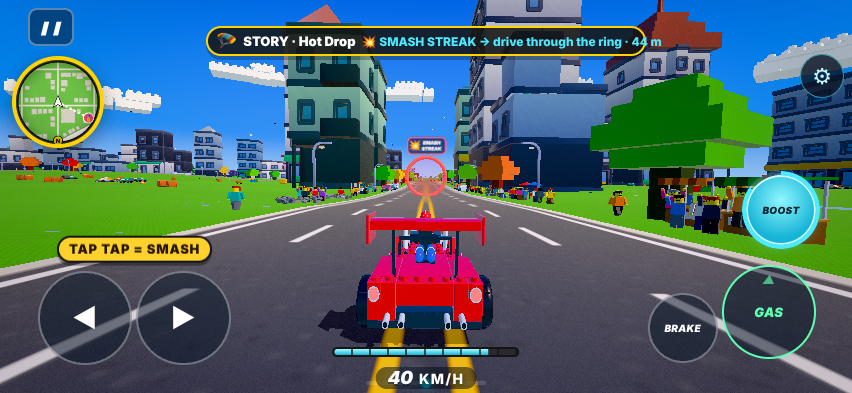
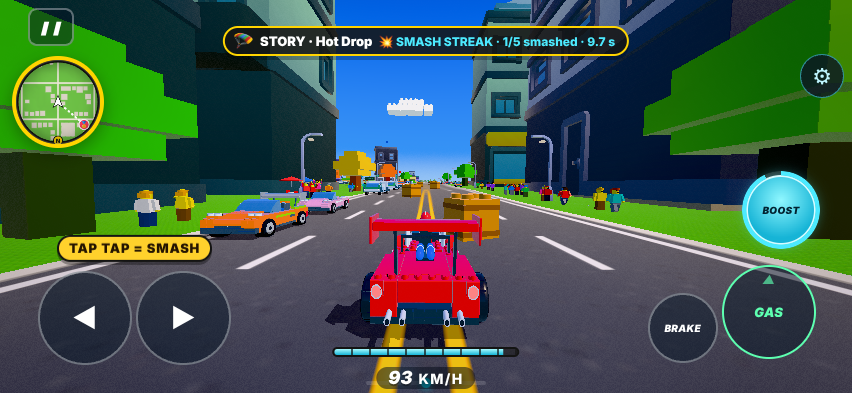
lively v88p: hide ring on start; pop tool: delayed run shot + fast logic mode
Claude-Session: https://claude.ai/code/session_01Jwuumv6rE1GdoTTWoDV1rK

diff --git a/lv/pop.js b/lv/pop.js
@@ -11,13 +11,13 @@ const enter=require('../bc/enter.js');const fs=require('fs');const URL=process.a
     const r=await ev(`(()=>{const N=HUB.nodes.filter(n=>n&&n.nb&&n.nb.length>=2&&!n.ab&&!n.g&&(n.w||0)>=10);const a0=N[Math.floor((${si}*.137%1)*N.length)],b=HUB.nodes[a0.nb[0]],L=Math.hypot(b.x-a0.x,b.z-a0.z),a={x:a0.x+(b.x-a0.x)*12/L,z:a0.z+(b.z-a0.z)*12/L};const h=Math.atan2(b.x-a0.x,b.z-a0.z);__mho.warp(a.x,a.z,h,performance.now());RO.x=a.x;RO.z=a.z;RO.y=__mho.gnd(a.x,a.z,RO.y+60);RO.v=0;RO.h=RO.vh=h;if(LVP.c)LVP_end(LVP.c,false);return 1})()`);
     await p.waitForTimeout(1500);ok=await ev(`(()=>{LVP.k=${k};LVP.cd=999;return !!LVP_path()&&LVP_spawn()})()`)===true}
   if(!ok){console.log('kind',k,'no straight street');continue}
-  await p.waitForTimeout(2500);await p.screenshot({path:`${OUT}/${CITY}_pop${k}_gate.png`});console.log('gate',k,await ev(`JSON.stringify({k:LVP.c&&LVP.c.K.k,d:LVP.c&&Math.round(Math.hypot(LVP.c.gx-RO.x,LVP.c.gz-RO.z)),line:(document.querySelector('#roamArrow span')||{}).textContent||(document.querySelector('#m1Next .crD')||{}).textContent})`));
+  await p.waitForTimeout(2500);if(!process.env.NOSHOT)await p.screenshot({path:`${OUT}/${CITY}_pop${k}_gate.png`});console.log('gate',k,await ev(`JSON.stringify({k:LVP.c&&LVP.c.K.k,d:LVP.c&&Math.round(Math.hypot(LVP.c.gx-RO.x,LVP.c.gz-RO.z)),line:(document.querySelector('#roamArrow span')||{}).textContent||(document.querySelector('#m1Next .crD')||{}).textContent})`));
   // headless sim runs ~0.3× real time: place the car 9 m before the ring at 15 m/s (the reviewer is told), then real GAS
   await ev(`(()=>{const C=LVP.c;RO.x=C.gx-Math.sin(C.gh)*9;RO.z=C.gz-Math.cos(C.gh)*9;RO.h=RO.vh=C.gh;RO.v=15;return 1})()`);
   await p.keyboard.down('ArrowUp');let shot=false;const t0=Date.now();
   while(Date.now()-t0<150000){const st=await ev(`LVP.c?LVP.c.st+':'+LVP.c.t.toFixed(1)+':'+LVP.c.v.toFixed(1):'none'`);
-   if(!shot&&st.startsWith('1:')&&parseFloat(st.split(':')[1])>(k===0?0.3:0.6)){await p.screenshot({path:`${OUT}/${CITY}_pop${k}_run.png`});shot=true;console.log('run',k,st,await ev(`(document.querySelector('#roamArrow span')||{}).textContent+' | '+((document.querySelector('#m1Next .crD')||{}).textContent||'')`))}
+   if(!shot&&st.startsWith('1:')&&parseFloat(st.split(':')[1])>(k===0?0.3:0.6)){if(!process.env.NOSHOT)await p.waitForTimeout(2500);if(!process.env.NOSHOT)await p.screenshot({path:`${OUT}/${CITY}_pop${k}_run.png`});shot=true;console.log('run',k,st,await ev(`(document.querySelector('#roamArrow span')||{}).textContent+' | '+((document.querySelector('#m1Next .crD')||{}).textContent||'')`))}
    if(st==='none')break;await p.waitForTimeout(400)}
-  await p.keyboard.up('ArrowUp');await p.waitForTimeout(600);if(k===2||k===0)await p.screenshot({path:`${OUT}/${CITY}_pop${k}_end.png`});
+  await p.keyboard.up('ArrowUp');await p.waitForTimeout(600);if(!process.env.NOSHOT&&(k===2||k===0))await p.screenshot({path:`${OUT}/${CITY}_pop${k}_end.png`});
   console.log('end',k,await ev(`JSON.stringify({ok:LVP.ok,miss:LVP.miss,ramps:RO.ramps.length})`))}
  console.log('errors',errs.length,errs.slice(0,5).join(' | '));await E.b.close()})();

diff --git a/src/98l_lively.js b/src/98l_lively.js
@@ -236,7 +236,7 @@ function LVP_spawn(){const Q=LVP_path();if(!Q)return false;const M=LVP_mesh(),K=
   if(roamHit(g.x,g.z,3.6,gy+2))return false;LVP_label(K);M.g.position.set(g.x,gy,g.z);M.g.rotation.set(0,g.h,0);M.g.visible=true;M.g.scale.setScalar(.05);
   LVP.c={K,st:0,t:0,v:0,gx:g.x,gz:g.z,gy,gh:g.h,Q,lat:Q.lat,obj:[],s0:0,dist:0};AU.sfx('pick');return true}
 // start: lay the course just past the ring
-function LVP_start(C){const K=C.K,M=LVP.m,Q=C.Q;C.st=1;C.t=0;C.s0=HUB.smashed;AU.sfx('go');say(K.ico+' '+K.name,K.lim+' s · '+K.goal+' '+K.u,1.4);
+function LVP_start(C){const K=C.K,M=LVP.m,Q=C.Q;M.g.visible=false;C.st=1;C.t=0;C.s0=HUB.smashed;AU.sfx('go');say(K.ico+' '+K.name,K.lim+' s · '+K.goal+' '+K.u,1.4);
   if(K.k==='jump'){const r=LVP_pt(Q,11,C.lat),y0=Math.max(0,groundAt(r.x,r.z,C.gy+6));addRamp(r.x,r.z,r.h,13,3,7,0xff8a1c,y0);C.ramp=RO.ramps[RO.ramps.length-1];C.rampM=RO.grp.children.slice(-3);C.tg=r}
   if(K.k==='slalom'){for(let j=0;j<5;j++){const o=C.lat+(j%2?-2.2:2.2),o2=clamp(o,-Math.max(2.2,Q.w/2-2.2),Math.max(2.2,Q.w/2-2.2)),a=LVP_pt(Q,11+j*3,o2);C.obj.push({x:a.x,z:a.z,h:a.h,tx:a.tx,tz:a.tz,y:Math.max(0,groundAt(a.x,a.z,C.gy+6)),pass:false,hit:[0,0]})}C.tg=C.obj[0]}
   if(K.k==='smash'){for(let j=0;j<6;j++){const o=clamp(C.lat+(j%2?-1.8:1.8),-Math.max(1.8,Q.w/2-1.6),Math.max(1.8,Q.w/2-1.6)),a=LVP_pt(Q,11+j*2.5,o);C.obj.push({x:a.x,z:a.z,h:a.h,y:Math.max(0,groundAt(a.x,a.z,C.gy+6)),dead:false})}C.tg=C.obj[0]}

diff --git a/lv/p/q7.js b/lv/p/q7.js
@@ -1,0 +1,3 @@
+(()=>{const out=[];const N=HUB.nodes.filter(n=>n&&n.nb&&n.nb.length>=2&&!n.ab&&!n.g&&(n.w||0)>=10);for(let si=1;si<30;si++){const a0=N[Math.floor((si*.137%1)*N.length)],b=HUB.nodes[a0.nb[0]],L=Math.hypot(b.x-a0.x,b.z-a0.z),a={x:a0.x+(b.x-a0.x)*12/L,z:a0.z+(b.z-a0.z)*12/L};const h=Math.atan2(b.x-a0.x,b.z-a0.z);__mho.warp(a.x,a.z,h,performance.now());RO.x=a.x;RO.z=a.z;RO.h=RO.vh=h;
+ LVP.k=3;if(!(LVP_path()&&LVP_spawn()))continue;const C=LVP.c;LVP_start(C);const M=LVP.m;const e=new THREE.Matrix4();M.cone.getMatrixAt(0,e);
+ out.push(`vis=${M.g.visible} gpar=${!!M.g.parent} cone.par=${!!M.cone.parent} count=${M.cone.count} m0=${e.elements.slice(12,15).map(v=>v.toFixed(0))} ro=${RO.x.toFixed(0)},${RO.y.toFixed(1)},${RO.z.toFixed(0)} obj=`+C.obj.map(o=>`${o.x.toFixed(0)},${o.y.toFixed(1)},${o.z.toFixed(0)}`).join(' ')+` grp=${HUB.grp.visible} inScene=${!!HUB.grp.parent}`);break}return out.join('\n')})()
